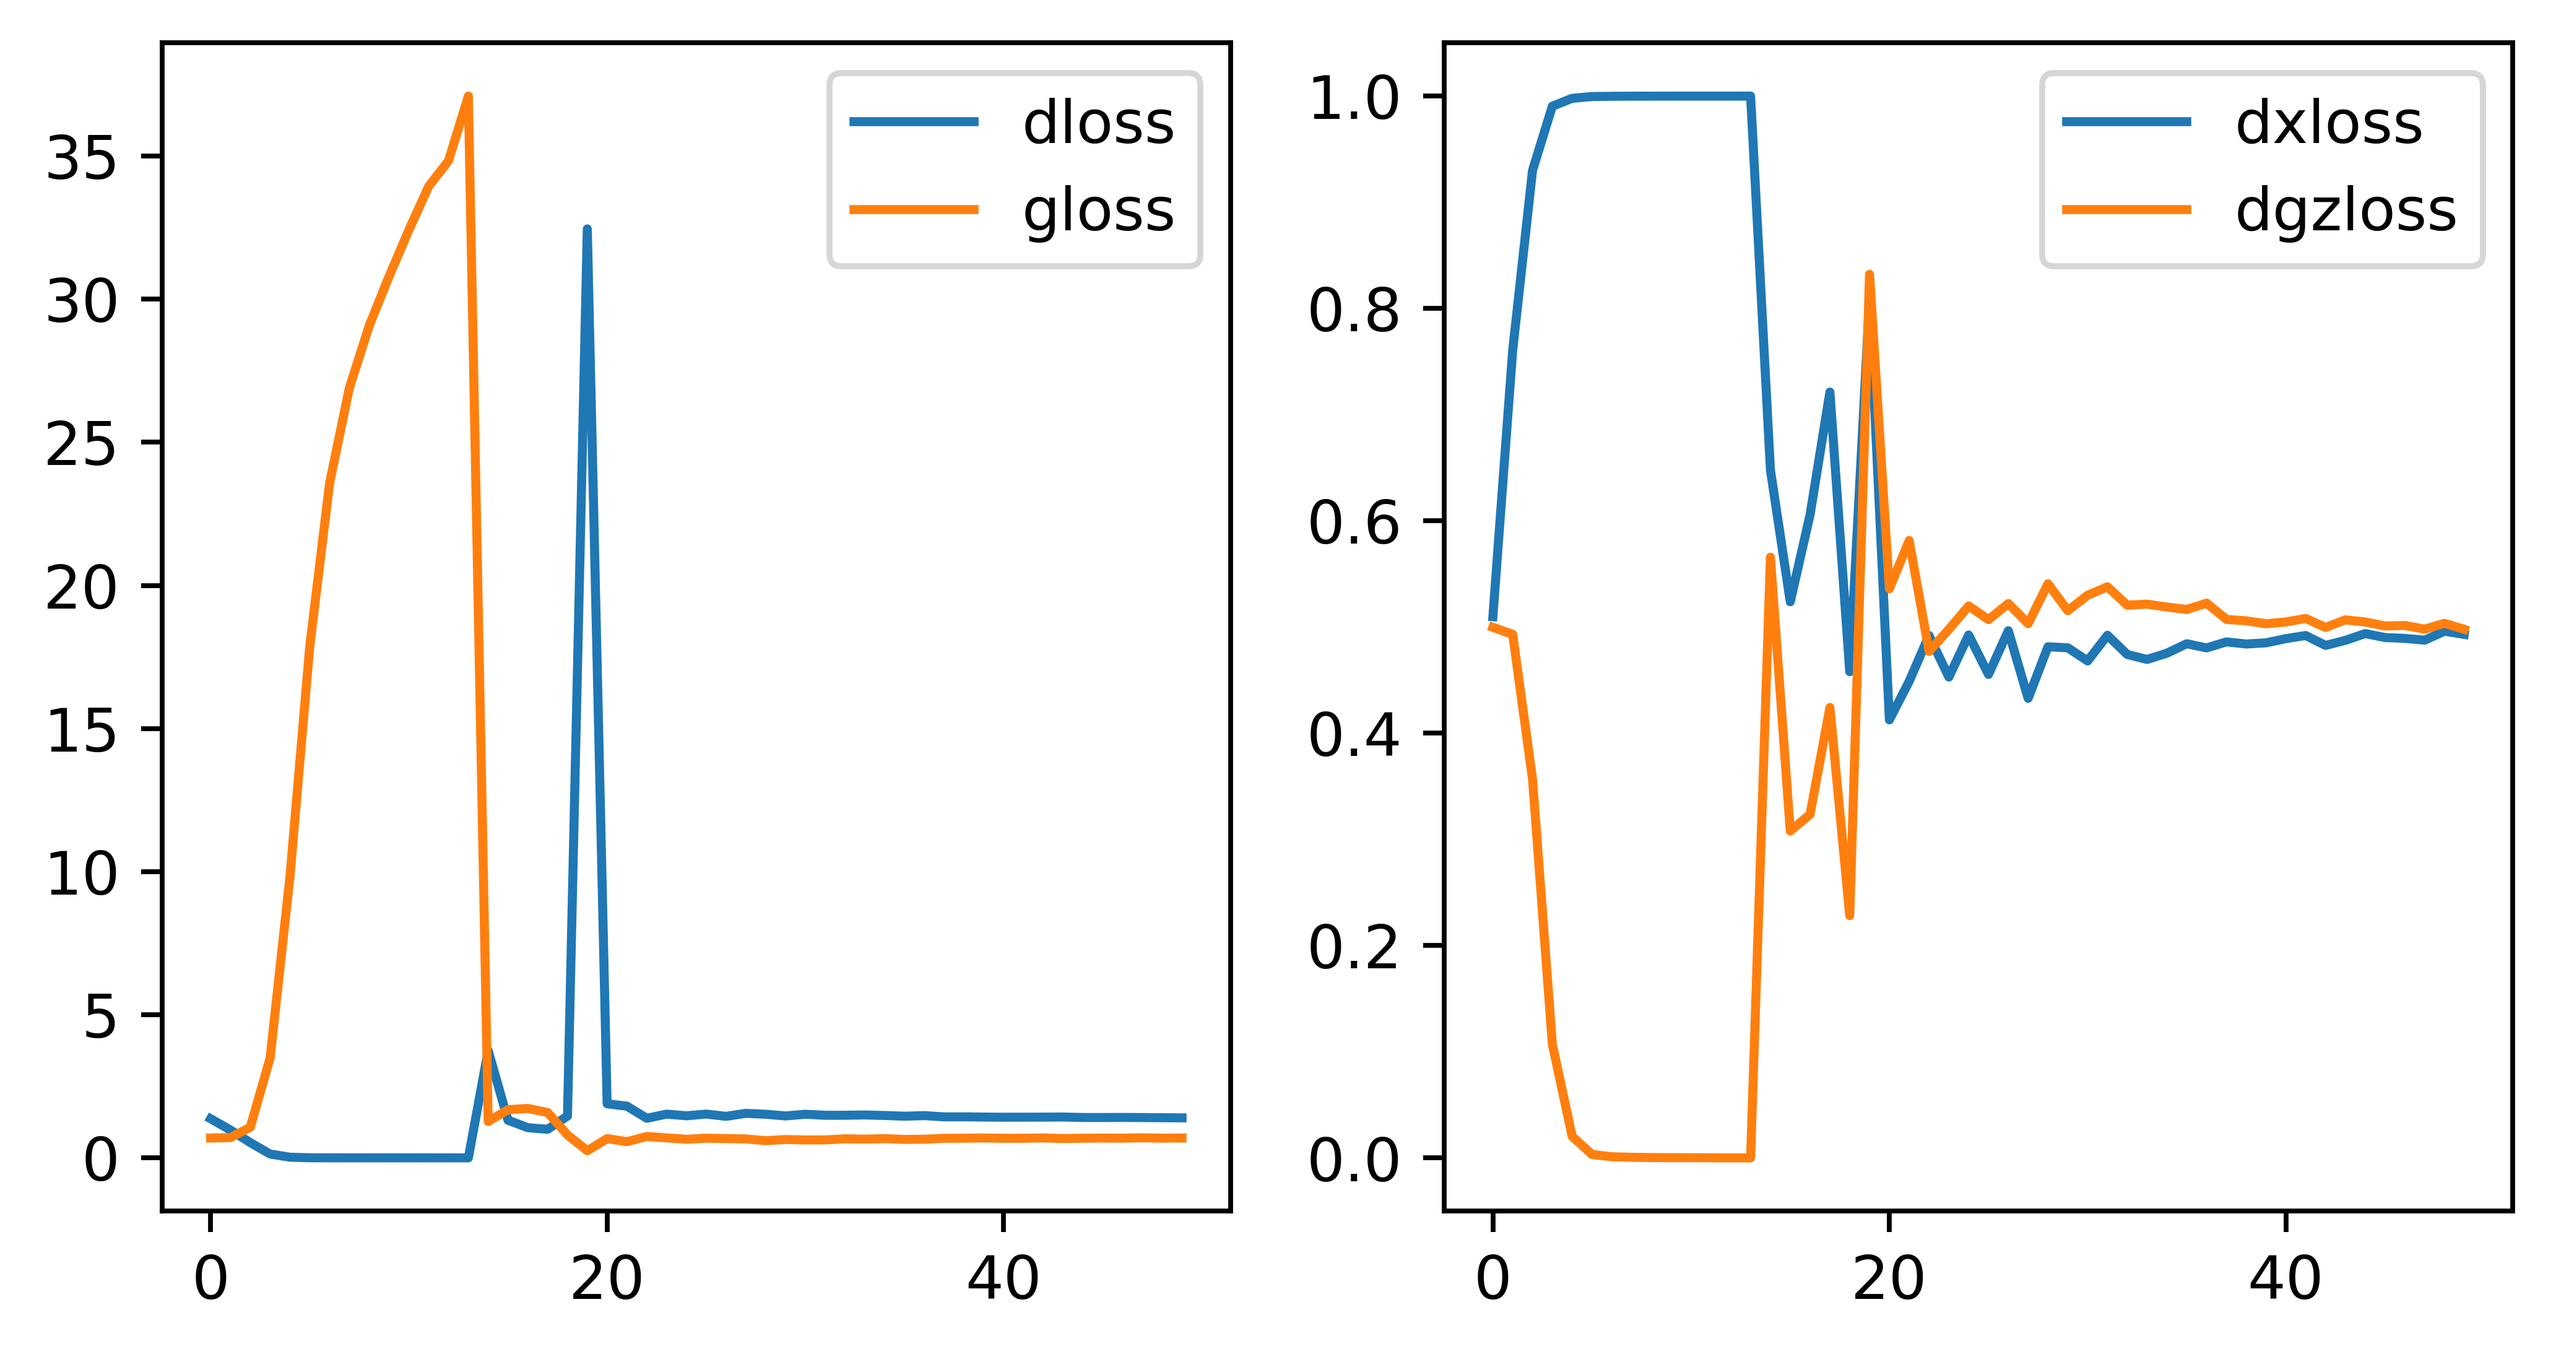
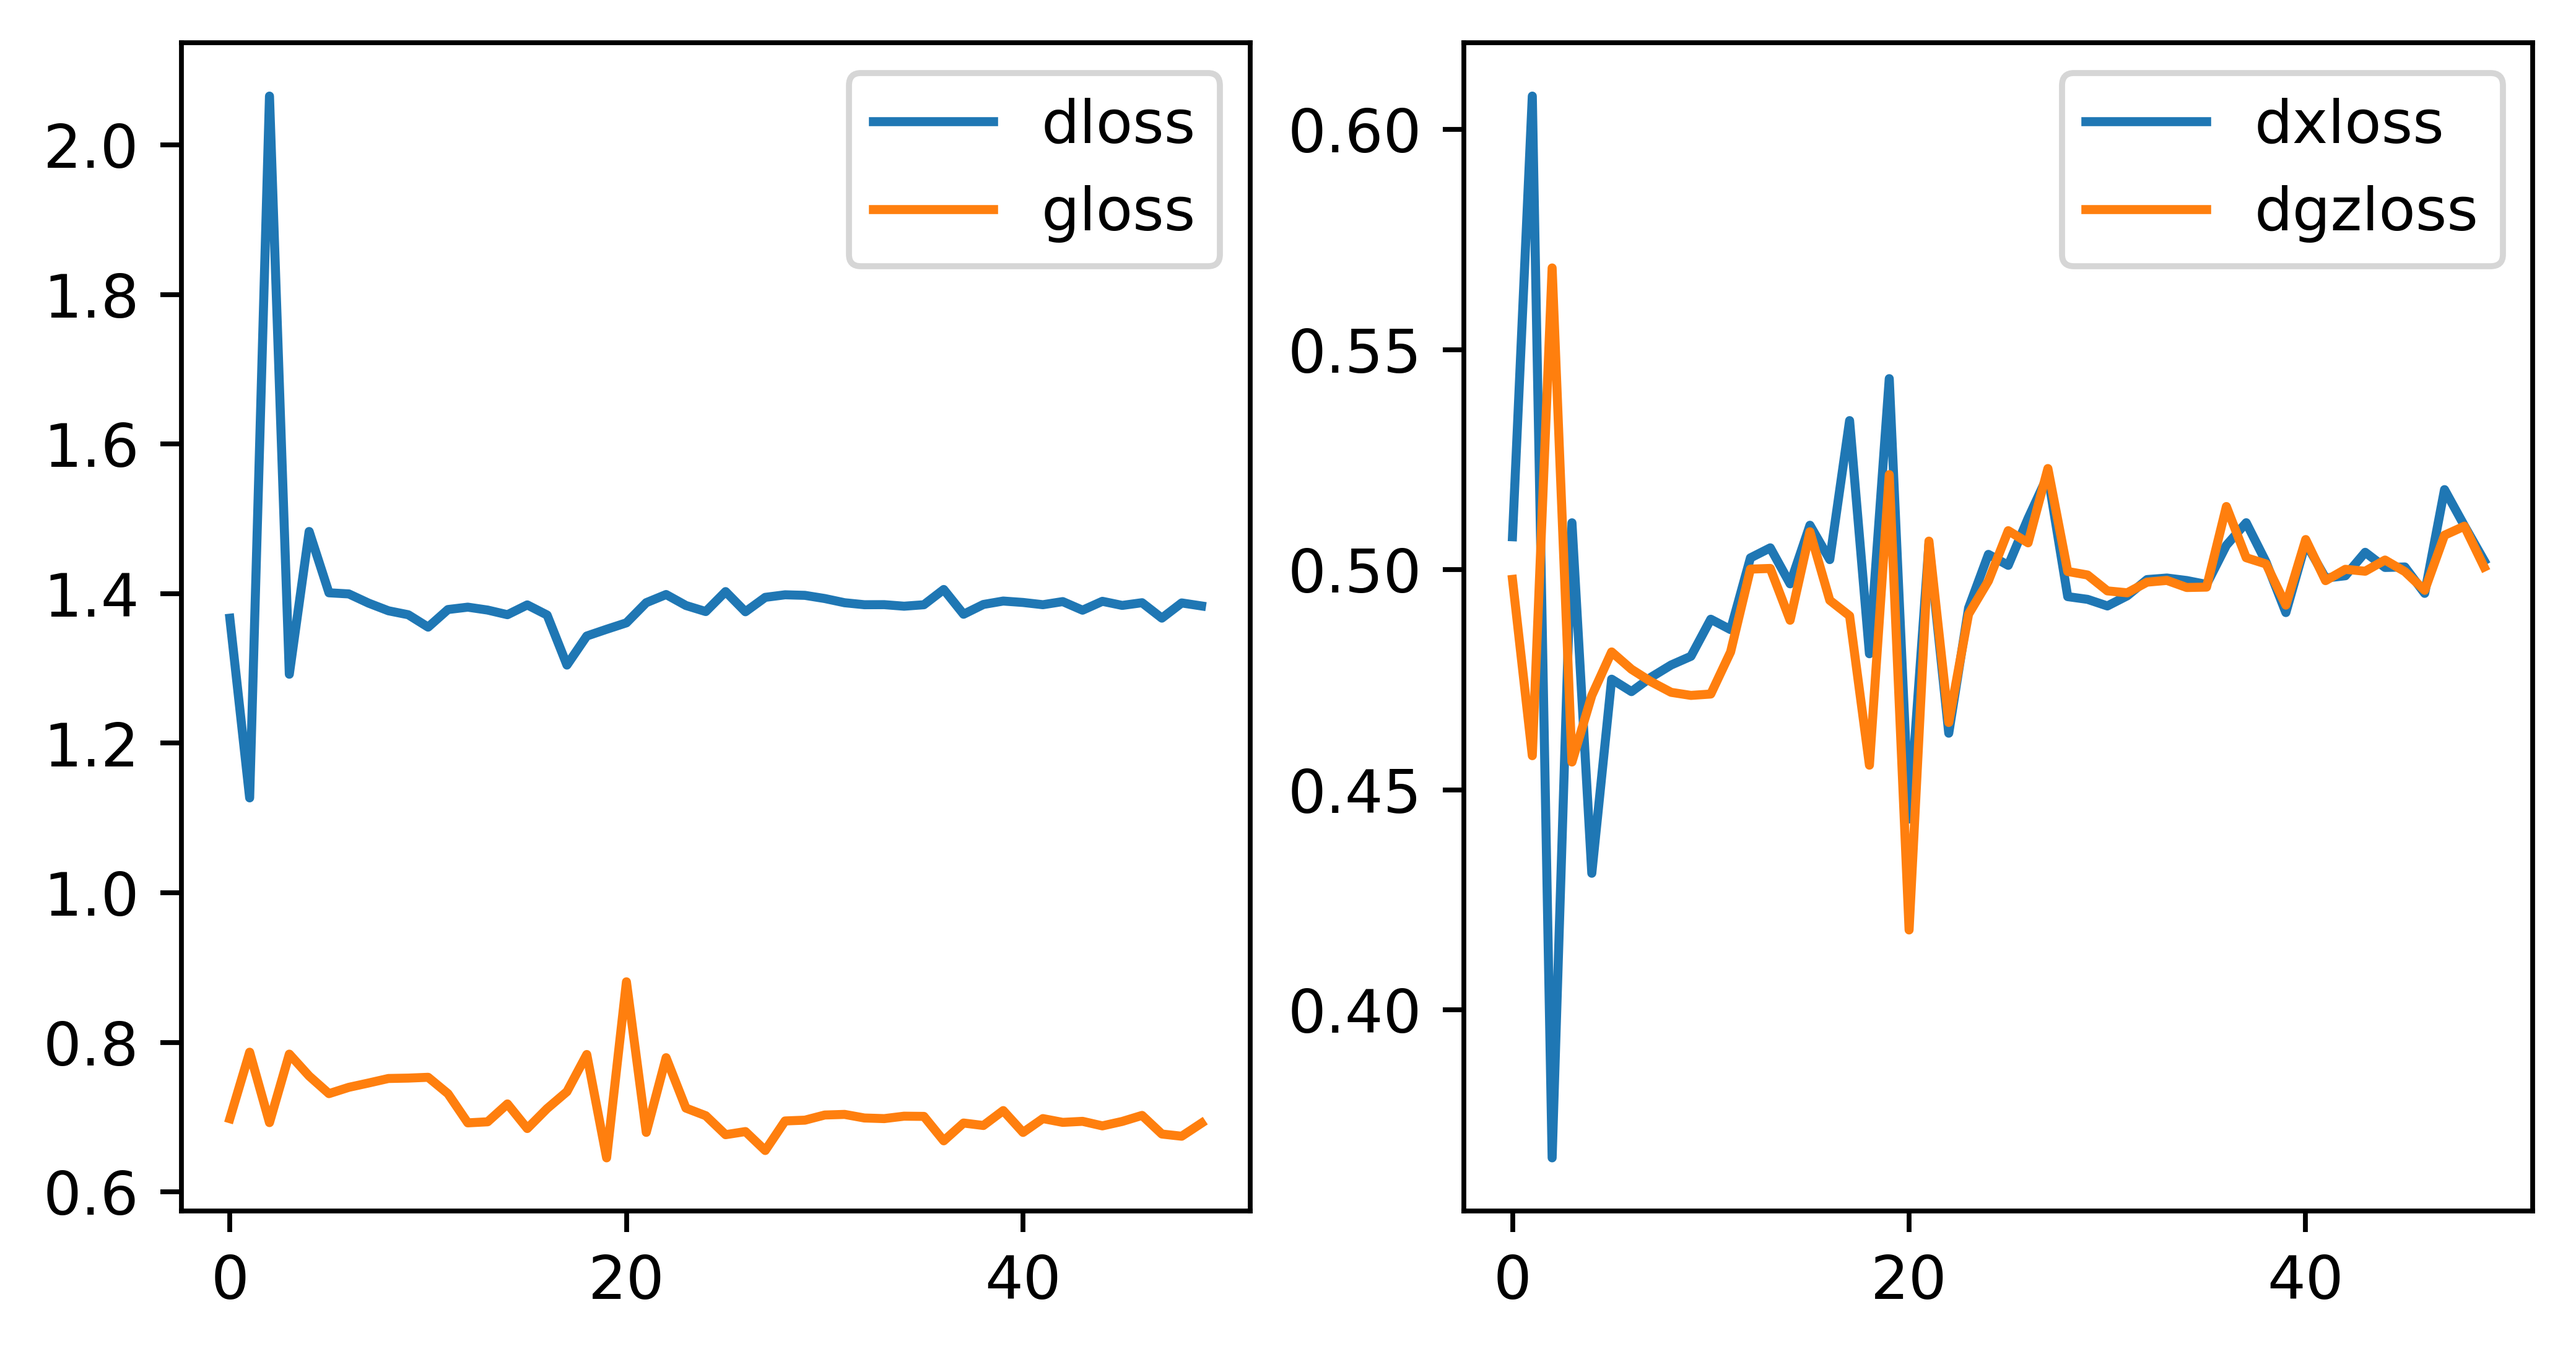
fix the minmax

diff --git a/load_dataset.py b/load_dataset.py
@@ -2,6 +2,7 @@ import torch
 from torch.utils.data import Dataset, DataLoader
 import pandas as pd
 import numpy as np
+from sklearn.preprocessing import MinMaxScaler
 
 class BtpDataset(Dataset):
     """Btp time series dataset."""
@@ -66,17 +67,22 @@ class IntelDataset(Dataset):
         df['Timestamp'] = pd.to_datetime(df['Timestamp'])
         df = df.set_index("Timestamp")
         df = df[['Temperature', 'Humidity', 'Light', 'Voltage', 'mote_id']]
+        df_ = df[['Temperature', 'Humidity', 'Light', 'Voltage']]
+        df_ = self.normalize(df_) if normalize else data
+        df_ = pd.DataFrame(df_, columns = ['Temperature', 'Humidity', 'Light', 'Voltage'])
+        df_['Timestamp'] = df.index
+        df_ = df_.set_index("Timestamp")
         data_list = []
-        for group in df[['Temperature', 'Humidity', 'Light', 'Voltage']].groupby([df.mote_id, df.index.date]):
+        for group in df_[['Temperature', 'Humidity', 'Light', 'Voltage']].groupby([df.mote_id, df.index.date]):
             if len(group[1]) == 24:
-                data_list.append(group[1].values)        
-        data = torch.FloatTensor(np.array(data_list))
-        #data = torch.from_numpy(np.expand_dims(np.array([group[1].values for group in Temperature.groupby(df.index.date)]), -1)).float()
-        self.data = self.normalize(data) if normalize else data
-        self.seq_len = data.size(1)
+                data_list.append(group[1].values)    
+            
+        self.data = torch.FloatTensor(np.array(data_list))
+        #self.data = self.normalize(data) if normalize else data
+        self.seq_len = self.data.size(1)
         
         #Estimates distribution parameters of deltas (Gaussian) from normalized data
-        original_deltas = data[:, -1] - data[:, 0]
+        original_deltas = self.data[:, -1] - self.data[:, 0]
         self.original_deltas = original_deltas
         self.or_delta_max, self.or_delta_min = original_deltas.max(), original_deltas.min() 
         deltas = self.data[:, -1] - self.data[:, 0]
@@ -92,15 +98,14 @@ class IntelDataset(Dataset):
 
     def normalize(self, x):
         """Normalize input in [-1,1] range, saving statics for denormalization"""
-        self.max = x.max()
-        self.min = x.min()
-        return (2 * (x - x.min())/(x.max() - x.min()) - 1)
-    
+        self.scaler = MinMaxScaler()
+        self.scaler.fit(x)
+        scaled_x = self.scaler.transform(x)
+        return scaled_x
+
     def denormalize(self, x):
         """Revert [-1,1] normalization"""
-        if not hasattr(self, 'max') or not hasattr(self, 'min'):
-            raise Exception("You are calling denormalize, but the input was not normalized")
-        return 0.5 * (x*self.max - x*self.min + self.max + self.min)
+        return self.scaler.inverse_transform(x)
     
     def sample_deltas(self, number):
         """Sample a vector of (number) deltas from the fitted Gaussian"""

diff --git a/plot_results.py b/plot_results.py
@@ -78,10 +78,10 @@ def plot_generated_data(folder):
         summary(generator_)
         noise = torch.randn(1, 168, 101, device='cuda')
         generated_data = generator_(noise)
-        generated_data = dataset_loader.denormalize(generated_data)
         generated_data = generated_data.cpu().detach().numpy()
         generated_data = generated_data.reshape(generated_data.shape[1], generated_data.shape[2])
-
+        generated_data = dataset_loader.denormalize(generated_data)
+        
         fake_df = pd.DataFrame(generated_data, columns=['Temperature', 'Humidity', 'Light', 'Voltage'])
         plot_helper(fake_df, ori_data[:168])
 
